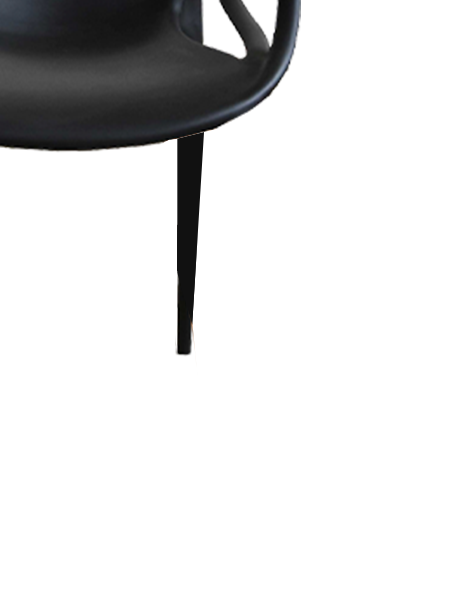
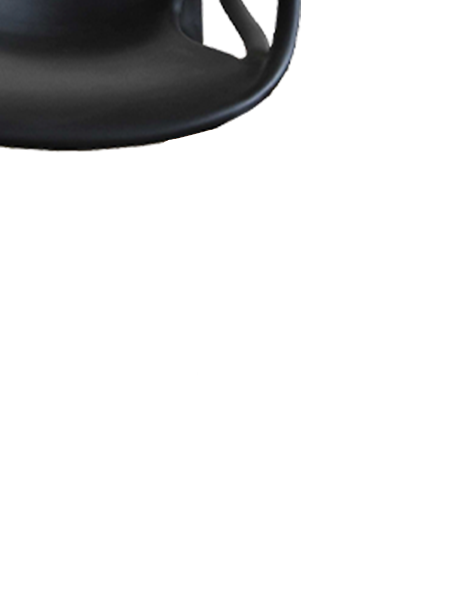
update

Changed region(s): [[0.3537, 0.2139, 0.4421, 0.6112]]

diff --git a/styles/components/_configurateur.scss b/styles/components/_configurateur.scss
@@ -1,11 +1,11 @@
 #configurateur {
-  display: flex;
-  align-items: center;
+//   display: flex;
+//   align-items: center;
   position: relative;
-  overflow: hidden;
+//   overflow: hidden;
   user-select: none;
-  height: 100vh;
-  width: 100vw;
+  height: 50vh;
+  width: 100%;
   background-color: $beige;
 
   #ref {
@@ -17,14 +17,15 @@
     height: auto;
     object-fit: cover;
     object-position: center;
+    background-color: white;
   }
 
   img {
     display: block;
     width: 100%;
-    height: auto;
+    height: 302px;
     color: transparent;
-    transform: scale(0.25);
+    // transform: scale(0.25);
   }
 }
 
@@ -44,7 +45,7 @@
   position: absolute;
   top: 0;
   left: 0;
-  height: 100vh;
+  height: 100%;
   pointer-events: none;
   margin-left: 20%;
 }
@@ -54,23 +55,24 @@
   align-items: center;
   justify-content: center;
   position: absolute;
-  top: 24%;
-  transform: translate(-1%, -44%);
+  top: 0%;
+//   transform: translate(-1%, -44%);
   width: 60vw;
-  height: 60vh;
+  height: 100%;
   padding: 1rem;
 }
 
-.slide__bg {
-  position: absolute;
-  top: 10%;
-  left: 10%;
-  bottom: 10%;
-  right: 10%;
-  background-position: center;
-  background-repeat: no-repeat;
-  background-size: cover;
-}
+// .slide__bg {
+//   position: absolute;
+//   top: 10%;
+//   left: 10%;
+//   bottom: 10%;
+//   right: 10%;
+//   background-position: center;
+//   background-repeat: no-repeat;
+//   background-size: cover;
+//   height: 100%;
+// }
 
 .slide__title {
   position: relative;

diff --git a/pages/personnalisation.js b/pages/personnalisation.js
@@ -6,7 +6,8 @@ import Image from 'next/image'
 import RebornFleche from '../public/assets/icons/reborn-fleche.svg'
 import RebornReparation from '../public/assets/icons/reborn-reparation.svg'
 import RebornReparationReception from '../public/assets/icons/reborn-reparation-reception.svg'
-import RebornReparationFini from '../public/assets/icons/reborn-reparation-fini.svg'
+import RebornReparationFini from '../public/assets/icons/reborn-reparation-fini.svg';
+import Configurateur from '../components/Configurateur';
 
 
 
@@ -37,6 +38,7 @@ const personnalisation = () => {
                             <p>Reborn propose un service de personnalisation de vos objets cassés avec des pièces détachées de votre choix. Un pied jaune sur une chaise de paille ou encore un vase réparé à partir de morceaux de céramiques récupérés, nous prenons en compte vos demandes et essayons d’y répondre au mieux, de la manière que vous voulez !
                             </p>
                         </div>
+                        <Configurateur />
                         {/*TODO*/}
                         <div className='btn__container'><button disabled className="btn primary-btn send-btn">
                             Reserver*

diff --git a/styles/components/_scrollGallery.scss b/styles/components/_scrollGallery.scss
@@ -12,6 +12,7 @@
         display: flex;
         justify-content: center;
         align-items: center;
+        padding-top: 10rem;
         h1 {
             display: flex;
             span {
@@ -21,10 +22,10 @@
     }
     .slider {
         position: absolute;
-        top: 0;
+        top: 33px;
         left: 0;
         width: 2800px;
-        height: 100%;
+        height: 90%;
         margin-left: 100px;
         .slider-inner {
             position: absolute;
@@ -88,7 +89,7 @@
                     width: 60vw;
                     max-width: 600px;
                     height: 100%;
-                    background-size: cover;
+                    background-size: contain;
                     background-position: center;
                 }
             }

diff --git a/components/ScrollGallery.js b/components/ScrollGallery.js
@@ -2,6 +2,7 @@ import Link from "next/link";
 import fleche from '../public/assets/img/icones/Fleche.svg';
 import Image from 'next/image'
 import { useEffect } from "react";
+import Header  from "./NavbarHome";
 
 const ScrollGallery = () => {
 
@@ -77,9 +78,7 @@ const ScrollGallery = () => {
     return (
         <>
             <section id="scrollGallery">
-                <div className="container-title">
-                    <h1><span className="first-title">Les</span><span className="second-title">chaises</span></h1>
-                </div>
+                <Header />
                 <div className="slider">
                     <div className="slider-inner">
                         <Image src={fleche} alt="fleche" className="second-image" />

diff --git a/next.config.js b/next.config.js
@@ -2,6 +2,10 @@
 const nextConfig = {
   reactStrictMode: true,
   swcMinify: true,
+  i18n: {
+    locales: ['fr'],
+    defaultLocale: 'fr',
+  },
 }
 
 module.exports = nextConfig
